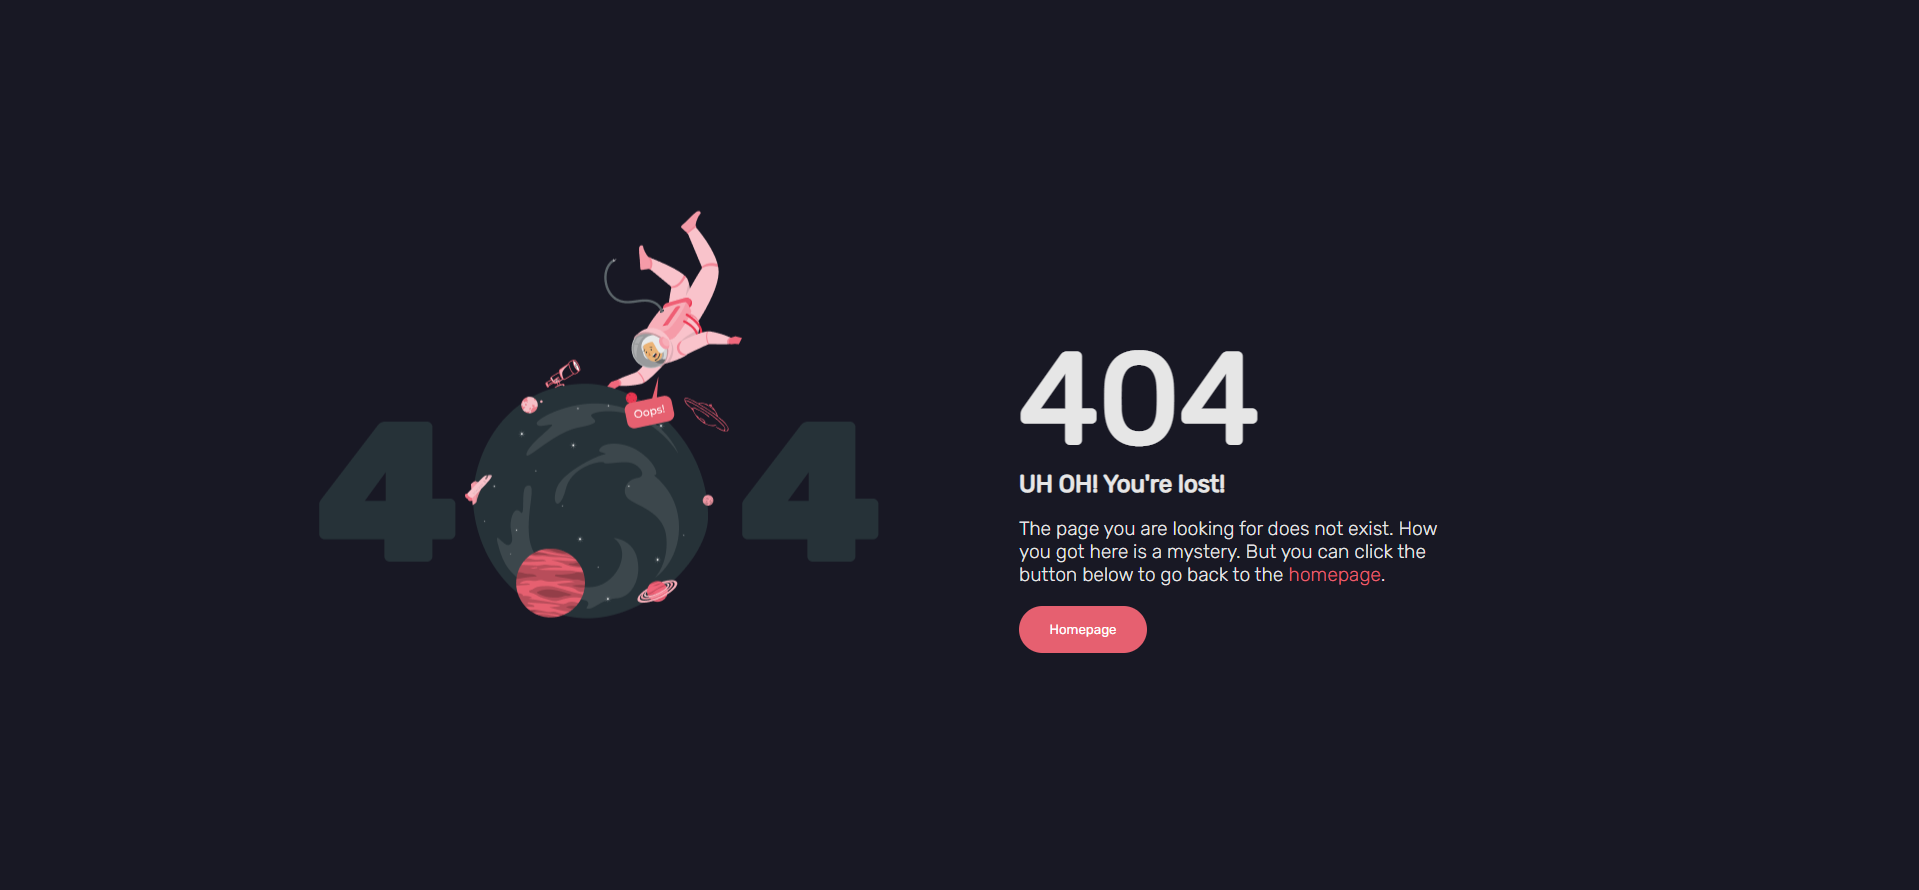
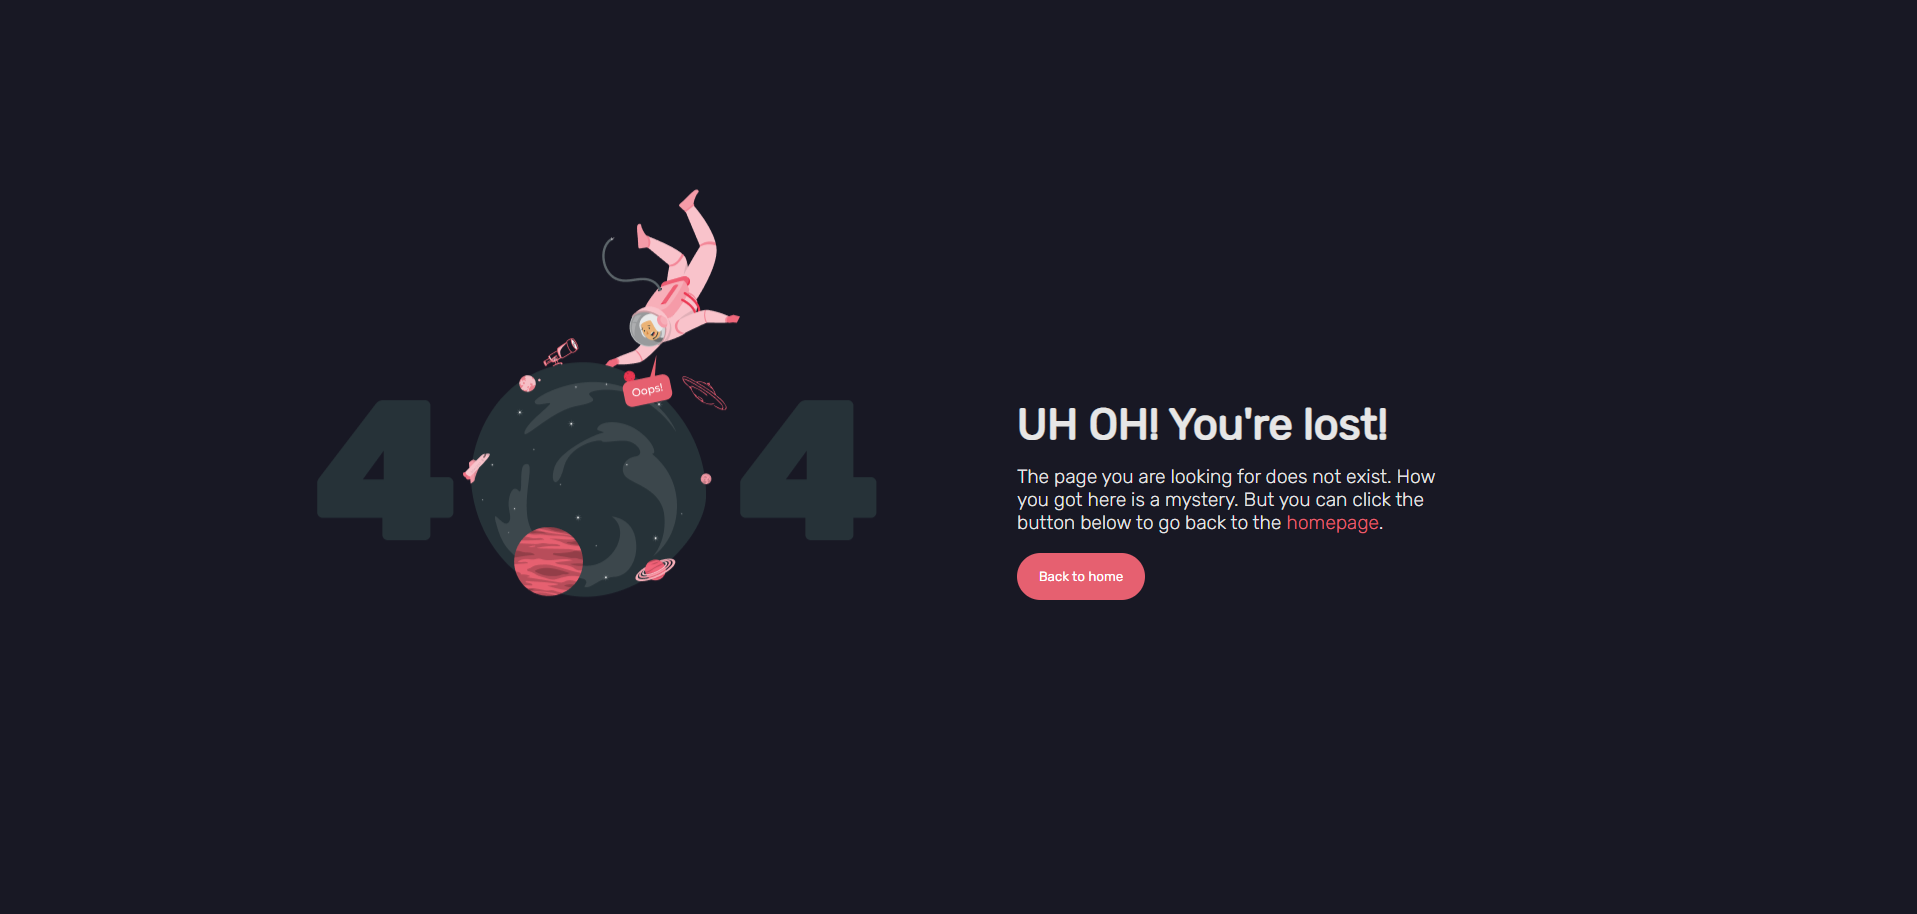
Change some stuff

Changed region(s): [[0.1539, 0.2124, 0.4617, 0.6978], [0.5232, 0.3944, 0.7694, 0.7584]]

diff --git a/404-error-page/index.html b/404-error-page/index.html
@@ -15,12 +15,9 @@
 <body>
     <div class="container">
 <img class="image" src="../assets/error-404.png">
-<h1>404</h1>
 <h2>UH OH! You're lost!</h2>
-<p>The page you are looking for does not exist.
-    How you got here is a mystery. But you can click the button below
-    to go back to the <span>homepage</span>.</p>
-    <button href="#">Homepage</button>
+<p>The page you are looking for does not exist. How you got here is a mystery. But you can click the button below to go back to the <span>homepage</span>.</p>
+    <button href="#">Back to home</button>
 </div>
 </body>
 

diff --git a/404-error-page/style.css b/404-error-page/style.css
@@ -26,17 +26,11 @@ img {
   margin-left: -900px;
 }
 
-h1 {
-  font-size: 8rem;
-  margin: 15px 0px;
-  font-weight: bold;
-  line-height: 46px;
-  margin-bottom: 40px;
-}
-
 h2 {
+  font-size: 2.7rem;
   font-weight: bold;
   padding-top: 8px;
+  margin-bottom: -5px;
 }
 
 p {
